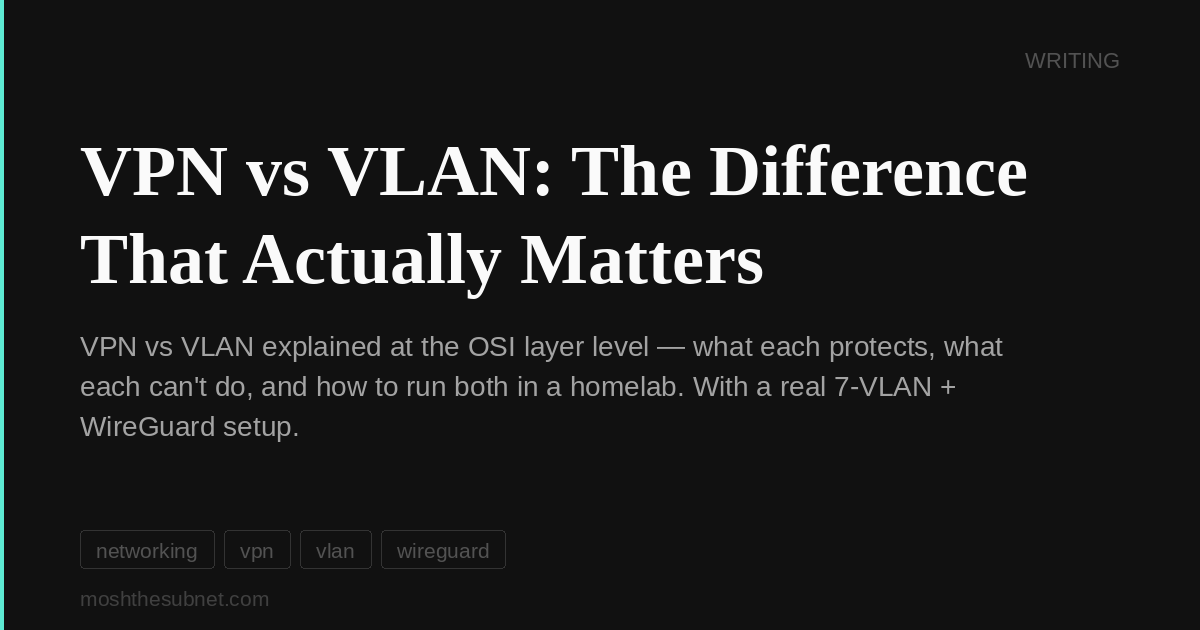
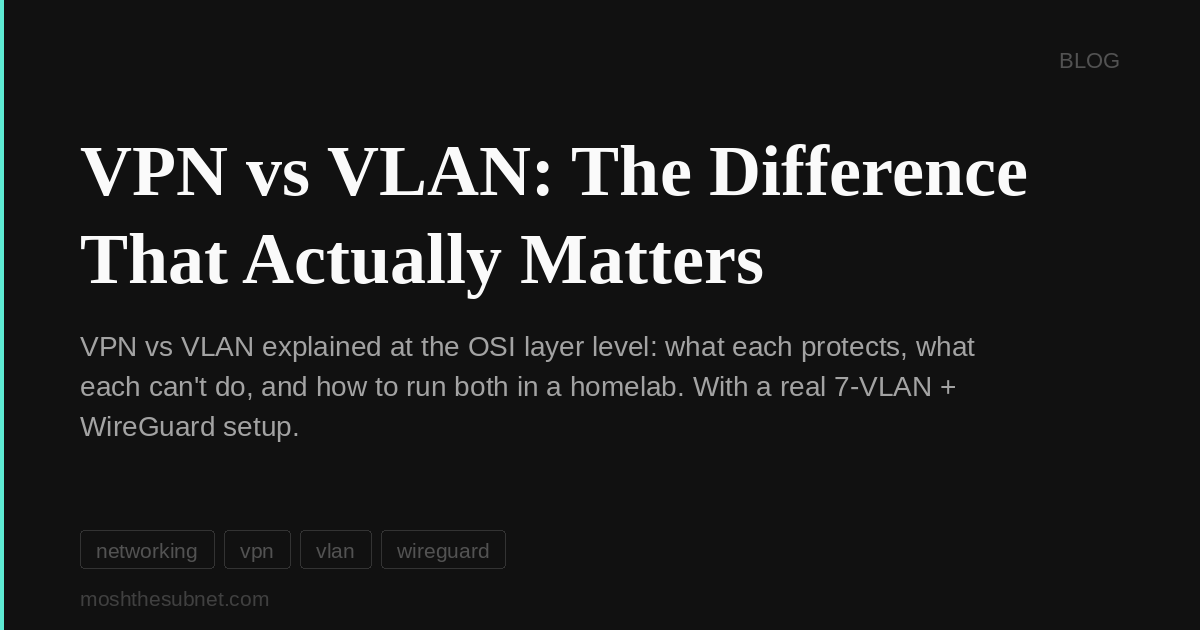
chore: regenerate blog OG images with BLOG label
Adapt generate-og-cards.py to the page-bundle layout (writes
content/blog/<slug>/feature.png) and flip the baked-in label WRITING ->
BLOG. Remove the superseded generate-og-images.py duplicate.

Changed region(s): [[0.555, 0.5429, 0.8325, 0.573], [0.8633, 0.0603, 0.925, 0.1206]]

diff --git a/scripts/generate-og-cards.py b/scripts/generate-og-cards.py
@@ -1,11 +1,15 @@
 #!/usr/bin/env python3
 """
-Generate OG-style thumbnail cards for writing posts, matching the project card style:
-dark bg · teal left accent · bold serif title · description · tags · url watermark
+Generate OG-style feature cards for blog post bundles, matching the project
+card style: dark bg · teal left accent · bold serif title · description ·
+tags · url watermark · "BLOG" label.
+
+Writes content/blog/<slug>/feature.png (referenced by each post's images:
+frontmatter for og:image / twitter:image).
 
 Usage:
     python3 scripts/generate-og-cards.py
-    python3 scripts/generate-og-cards.py --dry-run   # preview without writing files
+    python3 scripts/generate-og-cards.py --dry-run   # don't write files
 """
 
 import argparse
@@ -20,7 +24,7 @@ except ImportError:
 
 # ── Paths ─────────────────────────────────────────────────────────────────────
 ROOT         = Path(__file__).parent.parent
-CONTENT_DIR  = ROOT / "content" / "writing"
+CONTENT_DIR  = ROOT / "content" / "blog"
 OUTPUT_DIR   = ROOT / "static" / "img" / "posts"
 
 FONT_SERIF_BOLD = "/usr/share/fonts/truetype/liberation/LiberationSerif-Bold.ttf"
@@ -82,8 +86,8 @@ def generate_card(title, description, tags, output_path, dry_run=False):
     f_tag      = ImageFont.truetype(FONT_SANS, 21)
     f_url      = ImageFont.truetype(FONT_SANS, 21)
 
-    # "WRITING" label — top right
-    label      = "WRITING"
+    # "BLOG" label — top right
+    label      = "BLOG"
     label_w    = draw.textbbox((0, 0), label, font=f_label)[2]
     draw.text((W - MARGIN_R - label_w, 48), label, font=f_label, fill=GRAY_LABEL)
 
@@ -195,30 +199,28 @@ def inject_images_field(text, img_path):
 # ── Main ──────────────────────────────────────────────────────────────────────
 
 def main():
-    parser = argparse.ArgumentParser(description="Generate writing post OG cards")
+    parser = argparse.ArgumentParser(description="Generate blog post OG cards")
     parser.add_argument("--dry-run", action="store_true", help="Skip writing files")
     args = parser.parse_args()
 
-    posts = sorted(p for p in CONTENT_DIR.glob("*.md") if p.name != "_index.md")
+    posts = sorted(CONTENT_DIR.glob("*/index.md"))
     if not posts:
-        sys.exit(f"No posts found in {CONTENT_DIR}")
+        sys.exit(f"No post bundles found in {CONTENT_DIR}")
 
-    print(f"Generating {len(posts)} cards → {OUTPUT_DIR}\n")
+    print(f"Generating {len(posts)} cards into content/blog/<slug>/feature.png\n")
 
     for post_path in posts:
         text = post_path.read_text()
         fm   = parse_frontmatter(text)
 
         if not fm.get("title"):
-            print(f"  SKIP  {post_path.name} — no title in frontmatter")
+            print(f"  SKIP  {post_path.parent.name} — no title in frontmatter")
             continue
 
-        slug        = post_path.stem
-        output_path = OUTPUT_DIR / f"{slug}-og.png"
-        hugo_path   = f"/img/posts/{slug}-og.png"
+        slug        = post_path.parent.name
+        output_path = post_path.parent / "feature.png"
 
-        print(f"  {'[dry]' if args.dry_run else ''}  {post_path.name}")
-        print(f"         → {output_path.name}")
+        print(f"  {'[dry]' if args.dry_run else ''}  {slug} → feature.png")
 
         generate_card(
             title=fm["title"],
@@ -227,11 +229,6 @@ def main():
             output_path=output_path,
             dry_run=args.dry_run,
         )
-
-        if not args.dry_run:
-            updated = inject_images_field(text, hugo_path)
-            post_path.write_text(updated)
-            print(f"         ✓ frontmatter updated")
 
     print(f"\n{'Dry run — no files written.' if args.dry_run else 'Done.'}")
 
